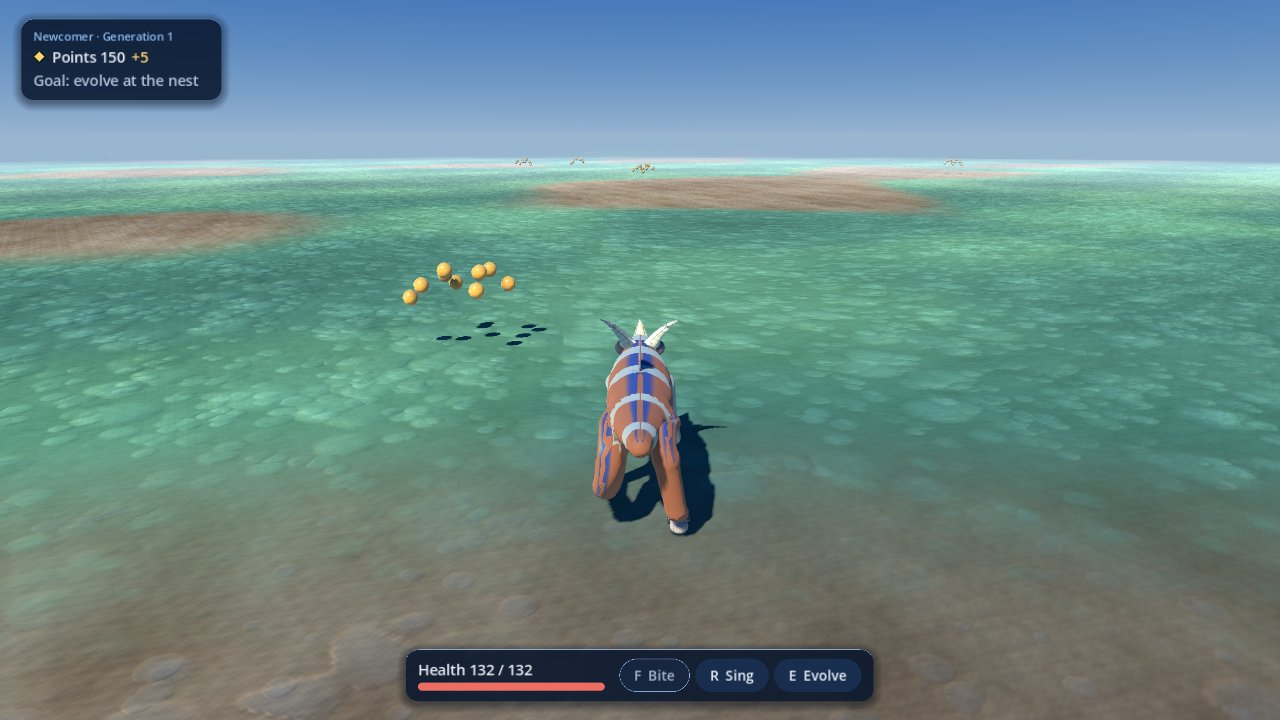
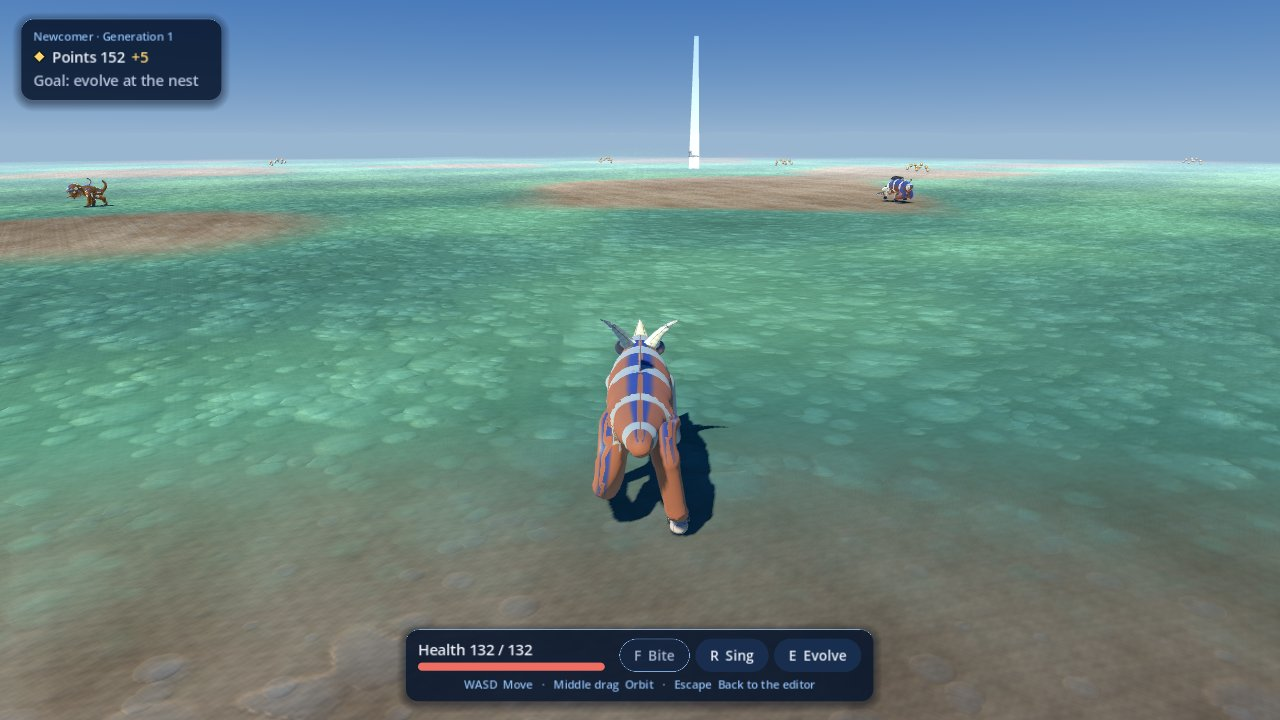
HUD evidence: the dock's key line in the away frames; README corrections on the controls line
Claude-Session: https://claude.ai/code/session_01EbsMKkedUw81MYFxDbwL8k

diff --git a/docs/evidence/credit-hud/README.md b/docs/evidence/credit-hud/README.md
@@ -1,10 +1,10 @@
 # In-game HUD restyle (credit-hud): frames and layout
 
 The cell HUD (`game/ui/hud.tscn`, `game/ui/hud.gd`, `game/ui/ladder_strip.gd`, `game/ui/meter_ring.gd`) and the
-creature world HUD (`game/ui/creature_world_hud.tscn`, `game/ui/creature_world_hud.gd`) take the glass look of the title menu, in a small,
-Spore-like layout. The owner's request is CONFIRMED: restyle both HUDs with the title menu's glass theme, keep them
-small and Spore-like, keep the HUD API game code calls. The layout and sizes below are PROPOSED: the owner judges the
-look.
+creature world HUD (`game/ui/creature_world_hud.tscn`, `game/ui/creature_world_hud.gd`) take the glass look of the
+title menu, in a small, Spore-like layout. The owner's request is CONFIRMED: restyle both HUDs with the title menu's
+glass theme, keep them small and Spore-like, keep the HUD API game code calls. The layout and sizes below are
+PROPOSED: the owner judges the look.
 
 ## Frames
 
@@ -22,7 +22,7 @@ the same name.
 | creature_world | the creature field 90 frames after enter_world, at the nest | [before](before_creature_world_100.jpg) · [after](after_creature_world_100.jpg) | | [after](after_720_creature_world.jpg) |
 | creature_death | at the nest, the longest notice (the death notice, set by the shot script) with Evolve lit | [after](after_creature_death_100.jpg) | [after](after_creature_death_130.jpg) | [after](after_720_creature_death.jpg) |
 | creature_notice | walked off the nest and pressed evolve: the sim's own "Return to the nest to evolve" refusal, and a "+5" flash (set by the shot script). The before frames forced this notice at the nest. | [before](before_creature_notice_100.jpg) · [after](after_creature_notice_100.jpg) | [before](before_creature_notice_130.jpg) · [after](after_creature_notice_130.jpg) | [before](before_720_creature_notice.jpg) · [after](after_720_creature_notice.jpg) |
-| creature_away | still off the nest, bit at the air (Bite recharging, a rimmed chip), notice cleared, the controls line timed out (its timer run out by the shot script): the HUD as it stays | [after](after_creature_away_100.jpg) | [after](after_creature_away_130.jpg) | [after](after_720_creature_away.jpg) |
+| creature_away | still off the nest, bit at the air (Bite recharging, a rimmed chip), notice cleared, the controls line timed out (its timer run out by the shot script) and the dock's line naming Move, Orbit and the way back in its place: the HUD as it stays | [after](after_creature_away_100.jpg) | [after](after_creature_away_130.jpg) | [after](after_720_creature_away.jpg) |
 | editor_tooltip | the creature editor with the mouse held over Random creature: a real tooltip in the glass `TooltipPanel` / `TooltipLabel` | [after](after_editor_tooltip_100.jpg) | | |
 
 `creature_death`, `creature_away` and `editor_tooltip` were added with the restyle, so they have no before frames.
@@ -70,13 +70,19 @@ Creature world HUD:
   "E  Evolve"). The chips only show state: Evolve lights (the dock's cyan, dark text) while the creature is at the
   nest, and Bite dims while its cooldown runs (a faint pill with a light 1 px rim and grey-blue text, so it reads
   as recharging, not gone; its text measures about 7.5:1 on the pill at 1920x1080 and 5.9:1 at 1280x720, where
-  the thinner strokes lower the measured peak). They take no focus and no mouse and never act: the keys do. Bite is left out for a
-  body with no mouth, as in the controls line.
-- Above the dock, the controls line as a `HudPill`, unchanged in wording. It shows for 15 s (`KEYS_HINT_S`) after
-  the world opens and again whenever the device or a binding changes, then fades, leaving the goal card and the
-  dock: the small HUD the creature plays with. The chips keep naming the ability keys and the pause menu lists
-  every control. Whether the line should also drop the abilities the chips already show is the owner's call (tests
-  read Bite, Evolve, Move and "Back to the editor" in its text, not its visibility).
+  the thinner strokes lower the measured peak). They take no focus and no mouse and never act: the keys do. Bite
+  is left out for a body with no mouth, as in the controls line.
+- Above the dock, the controls line as a `HudPill`, unchanged in wording. It shows for 15 s (`KEYS_HINT_S`) each
+  time the world opens and again when the device in use changes (keys and mouse to a controller or back), then
+  fades. A rebinding is made in the settings, outside the world, so it shows the next time the world opens.
+- When the controls line goes, a small caption line in the dock takes its place and stays: the keys the chips do
+  not name, "WASD  Move   ·   Middle drag  Orbit   ·   Escape  Back to the editor" (on a controller "Left stick",
+  "Right stick" and "B"), named from the bindings like the line itself. So moving, orbiting and the way out never
+  leave the screen, as Bible 19 asks of tutorial prompts ("can be dismissed or revisited"). The creature world has
+  no pause menu (Escape goes straight back to the editor), and the pool's pause menu lists only the cell's
+  controls, so this dock line is where those keys stay. Whether the timed line should also drop the abilities the
+  chips already show is the owner's call (tests read Bite, Evolve, Move and "Back to the editor" in its text, not
+  its visibility).
 - Every control in the creature HUD ignores the mouse, so the middle-drag orbit reaches the camera.
 - The top right is empty now: the points moved into the goal card.
 
@@ -86,9 +92,12 @@ Creature world HUD:
   lists, and the private fields the creature tests read (`_hint_text`, `_name_text`, `_points_text`,
   `_points_flash`).
 - The creature HUD's chips, goal line, mouse handling and controls-line timeout have their own unit tests in
-  `tests/test_creature_world_hud.gd` (a stub world): the chips' names and a rebind, Evolve lit only at the nest,
-  Bite dimmed while it recharges and absent without a mouth, no mouse or focus anywhere, the goal line, and the
-  controls line timing out and coming back when the bindings change.
+  `tests/test_creature_world_hud.gd` (a stub world), added at the round 1 reviewers' request; the file is outside
+  the job brief's list, so the lead signs it off in the PR. They cover the chips' names and a rebinding shown when
+  the world opens again, Evolve lit only at the nest, Bite dimmed while it recharges and absent without a mouth, no
+  mouse or focus anywhere, the goal line, and the controls line timing out with the dock's line then naming the
+  move, orbit and way-out keys, and the line coming back on a real device change (`InputPrompts.note` with a
+  controller button) and when the world opens again.
 - Tests on this branch, after merging main b358e717: `tests/run_tests.gd -- --only=test_creature_world_hud,
   test_ui_text,test_growth_hud,test_world_hud,test_threat_indicators,test_creature_world_scene,test_creature_stage,
   test_world_gen,test_settings,test_menus,test_look_probe` 178 tests, 0 failed; `tests/smoke/ui_smoke.gd`
@@ -120,6 +129,10 @@ Creature world HUD:
   only. Sing never dims: `player()` does not expose the sing cooldown. Both need a read-only addition to the
   creature systems code, which other agents own: issues #205 (sing cooldown) and #206 (player hunger, an owner
   decision first).
+- On a controller, B is both Sing (`creature_social` is bound to joypad button 1 in `project.godot`) and Back to the
+  editor (Godot's default `ui_cancel`), so pressing B to sing also leaves the world. This was so before the
+  restyle (main's key line showed the same names); the chips only make it visible. `project.godot` and the
+  creature code belong to other owners, so it is not changed here.
 - `tests/test_world_hud.gd` still feeds the pre-glass panel rects into its pip test as fixed inputs, and its
   comment still says they are read off the running game. Refreshed from the new layout, its west-south-west case
   no longer lies under the controls card, so the scenario would need the owner's approval to change. The shot
